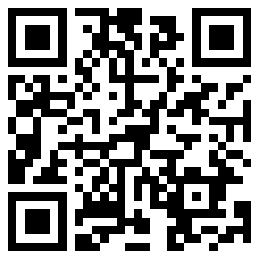
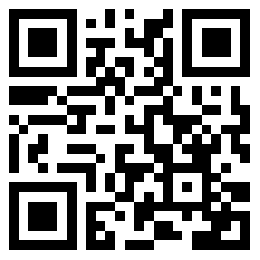
readme

diff --git a/README.md b/README.md
@@ -5,7 +5,7 @@
 [开眼视频 Flutter 高仿版](https://github.com/mmtou/eyepetizer_flutter) 是基于「开眼」非开放 API 、使用 Flutter 开发。
 
 项目源码: [https://github.com/mmtou/eyepetizer_flutter](https://github.com/mmtou/eyepetizer_flutter)  
-下载体验: [https://fir.im/eyepetizer_flutter](https://fir.im/eyepetizer_flutter)  
+下载体验: [https://fir.im/eyepetizer](https://fir.im/eyepetizer)  
 ![扫码下载体验](https://github.com/mmtou/eyepetizer_flutter/raw/master/demo/images/d1.png)
 
 ## 预览
